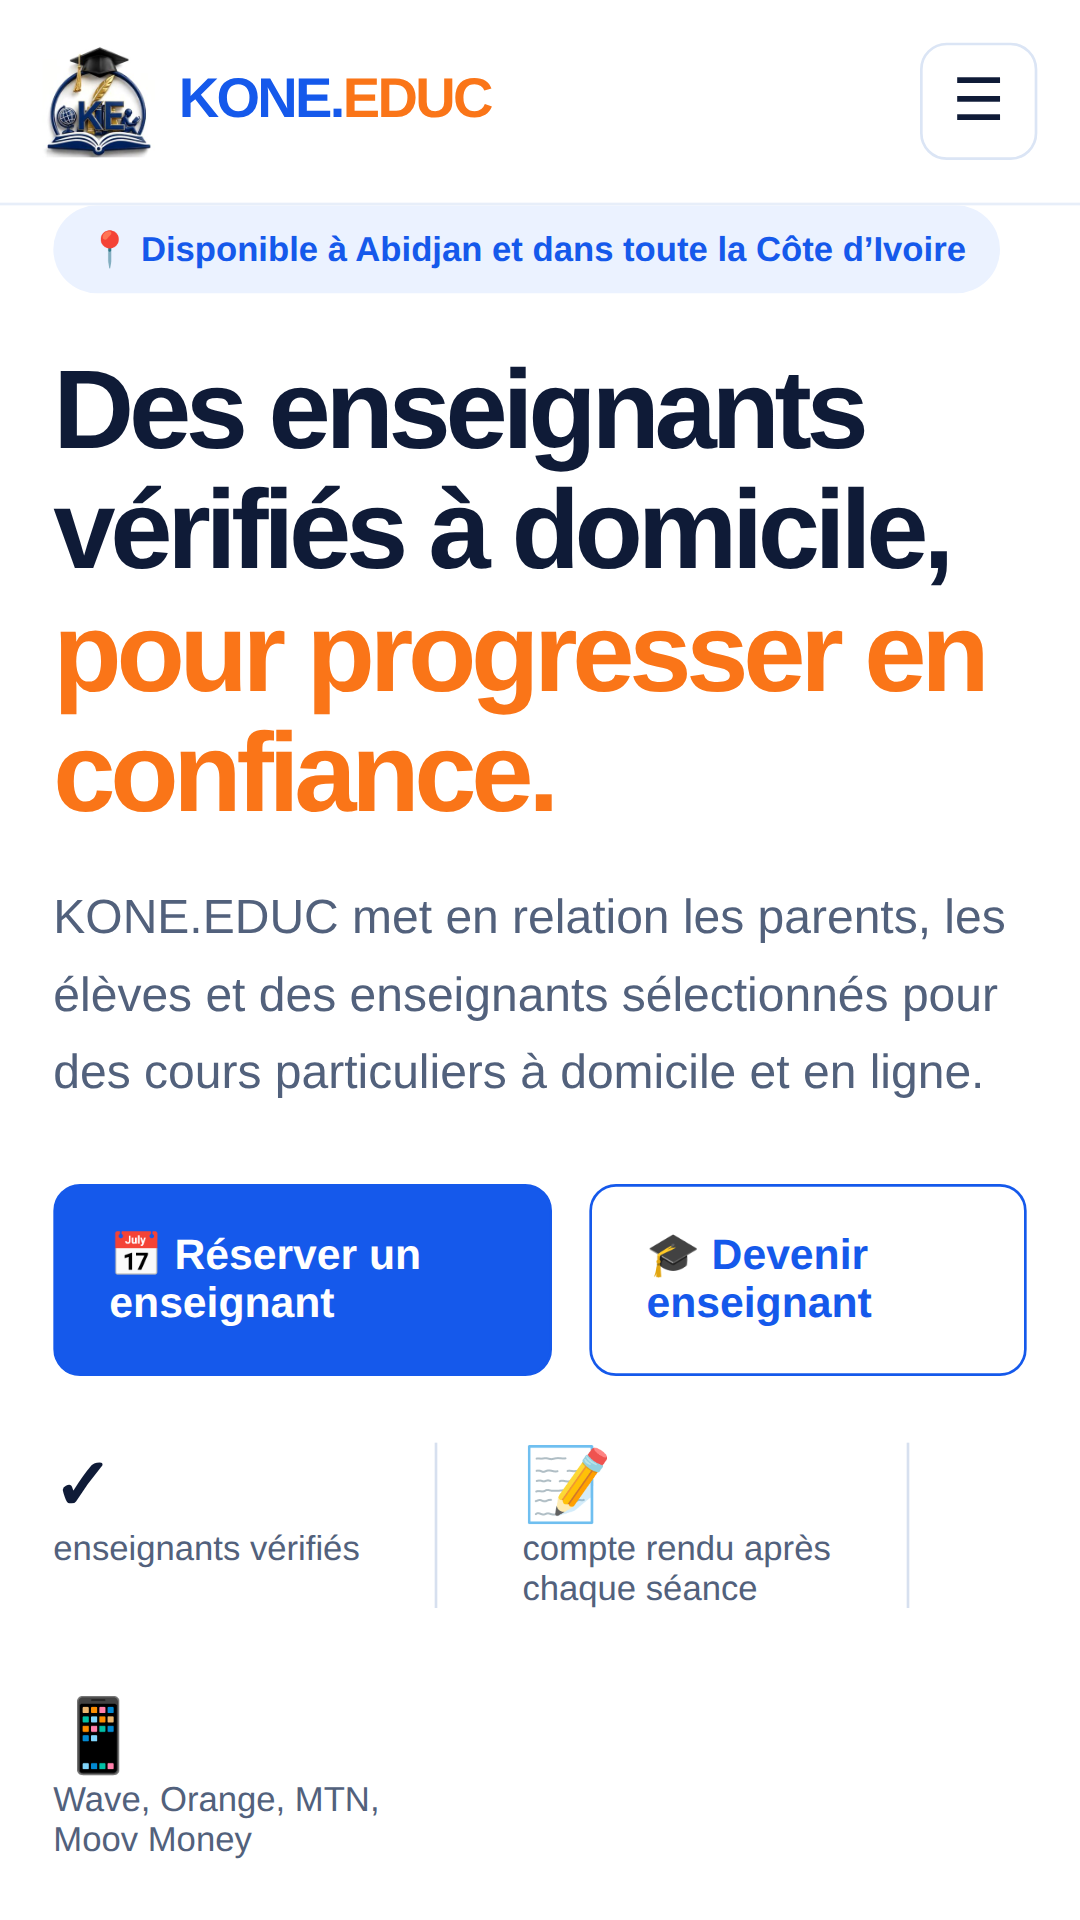
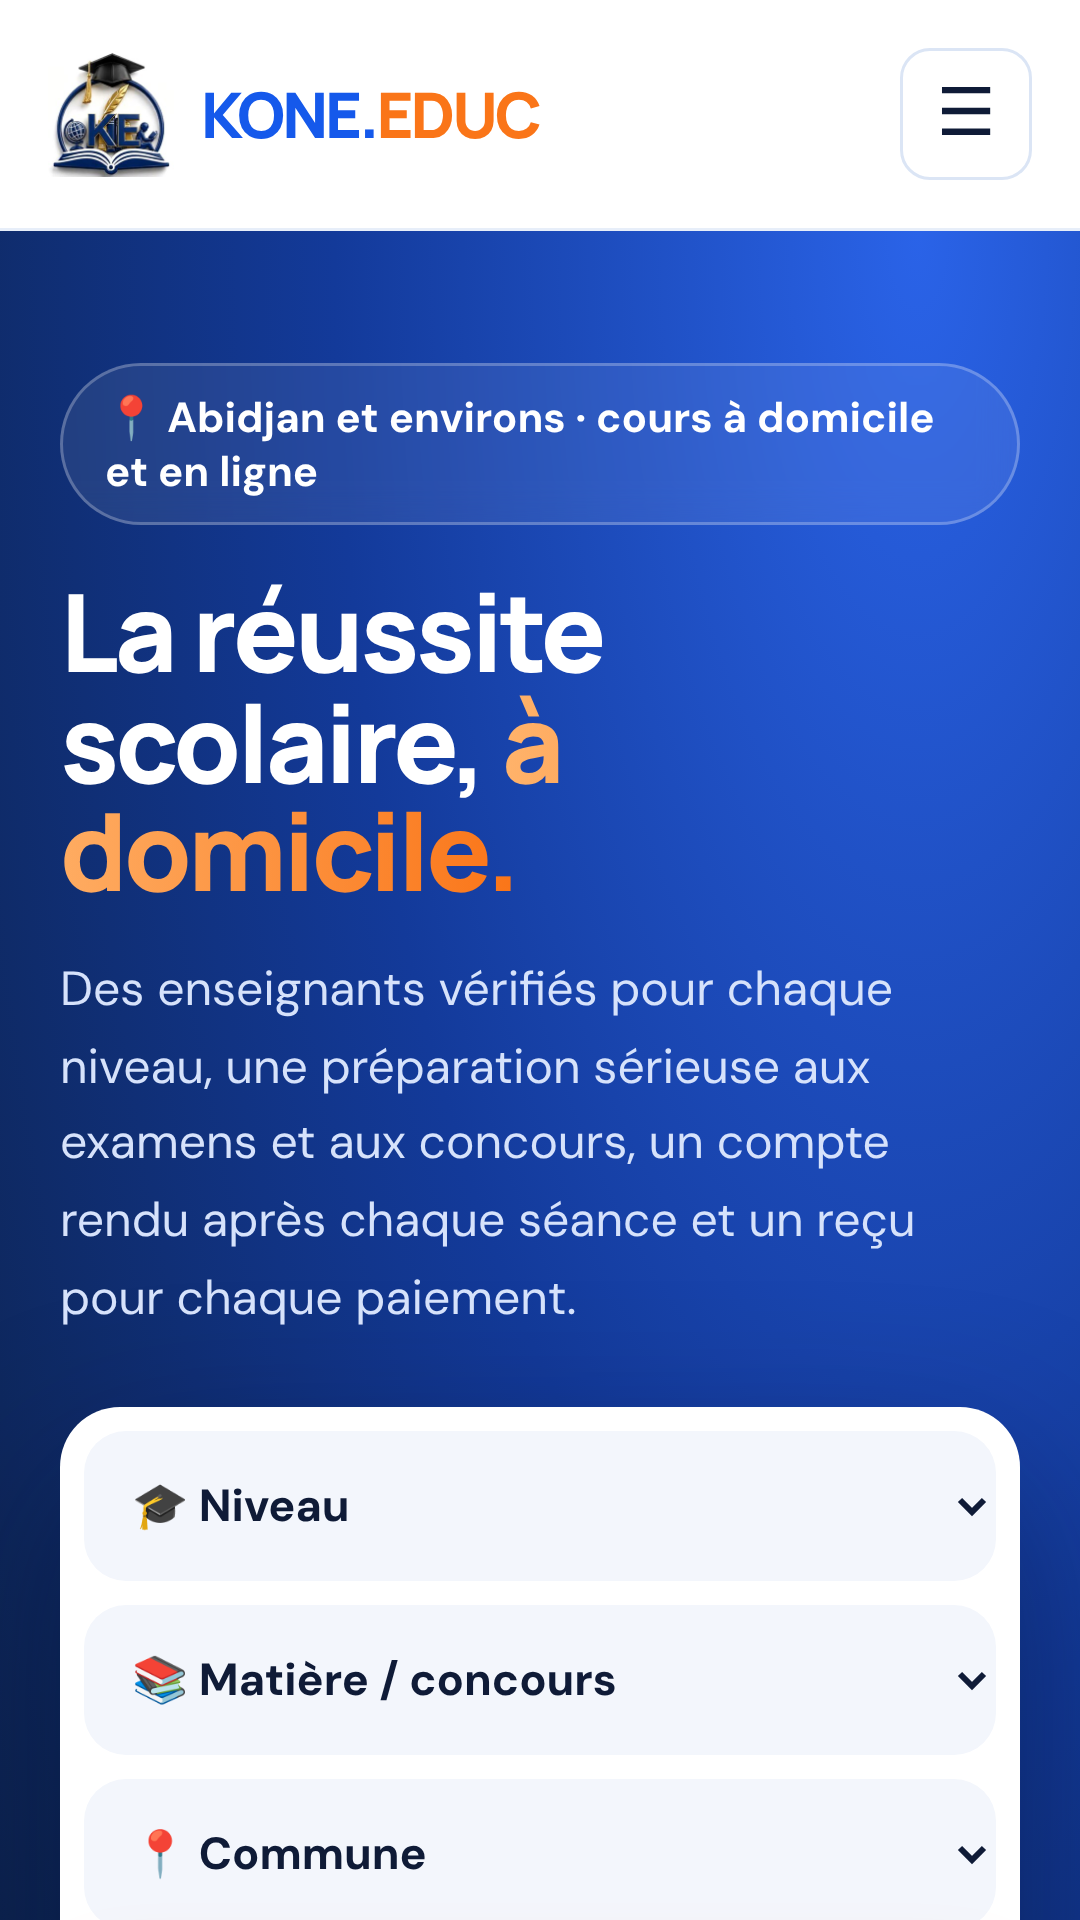
Play Store : nouvelles captures (accueil, concours, boutique, reçu), manifeste et fiche à jour
Claude-Session: https://claude.ai/code/session_0129bi1T95Ursf7JNbX3GGTJ

diff --git a/PLAY-STORE.md b/PLAY-STORE.md
@@ -41,7 +41,7 @@ Les deux empreintes doivent figurer dans `assetlinks.json`.
 Images (dossier `assets/store/` et fichiers fournis) :
 - Icône : `assets/icons/icon-512.png` (512 × 512)
 - Image de présentation : `banniere-1024x500.png`
-- Captures d’écran du téléphone : `1-accueil.png`, `2-fiche-enseignant.png`, `4-bilan.png`, `5-planning.png` (1080 × 1920)
+- Captures d’écran du téléphone (1080 × 1920, dans cet ordre) : `1-accueil.png`, `2-concours.png`, `3-boutique.png`, `2-fiche-enseignant.png`, `4-bilan.png`, `5-planning.png`, `6-recu.png`
 
 Liens à renseigner :
 - Politique de confidentialité : `https://www.kone-educ.com/mentions-legales.html#confidentialite`
@@ -63,7 +63,7 @@ Ensuite : **Tests → Test fermé** (compte Personnel : 12 testeurs, 14 jours), 
 KONE.EDUC – Cours à domicile
 
 **Description courte** (80 caractères max.)
-Cours particuliers à domicile à Abidjan, avec suivi après chaque séance.
+Cours à domicile, préparation BEPC, BAC, concours ENSEA et INPHB à Abidjan.
 
 **Description complète**
 
@@ -76,13 +76,26 @@ KONE.EDUC met en relation les familles et des enseignants vérifiés pour des co
 • Lisez le compte rendu de l’enseignant après chaque séance : notions travaillées, devoirs, compréhension
 • Recevez chaque mois un bilan de progression clair, imprimable en PDF
 • Échangez avec l’enseignant par messagerie
-• Réglez vos factures par Wave, Orange Money, MTN MoMo ou Moov Money
+• Réglez vos factures par Wave, Orange Money, MTN MoMo ou Moov Money et retrouvez vos reçus
 
 👩🏫 POUR LES ENSEIGNANTS
 • Déposez votre dossier (diplôme, CV, pièce d’identité) et faites-vous valider
 • Postulez aux offres de cours proches de chez vous
 • Planifiez vos séances et envoyez vos comptes rendus en quelques clics
 • Disposez d’une fiche publique avec les avis des familles
+
+🎯 EXAMENS ET CONCOURS
+• Préparation au CEPE, au BEPC et au BAC
+• Concours ENSEA (AS, ISE Maths, ISE Économie) et INPHB (A2GP, classes préparatoires, ITA)
+• Annales, méthode et épreuves blanches avec un enseignant spécialisé
+
+🛒 BOUTIQUE SCOLAIRE
+• Livres, manuels, annales, cahiers et fournitures livrés à domicile par des boutiques vérifiées
+• Paiement à la livraison ou par mobile money, suivi de la commande en temps réel
+
+🧾 PAIEMENTS ET REÇUS
+• Wave, Orange Money, MTN MoMo et Moov Money
+• Un reçu numéroté pour chaque paiement, conservé dans votre espace
 
 ✅ NOS GARANTIES
 • Enseignants sélectionnés : identité, diplôme et entretien pédagogique vérifiés
